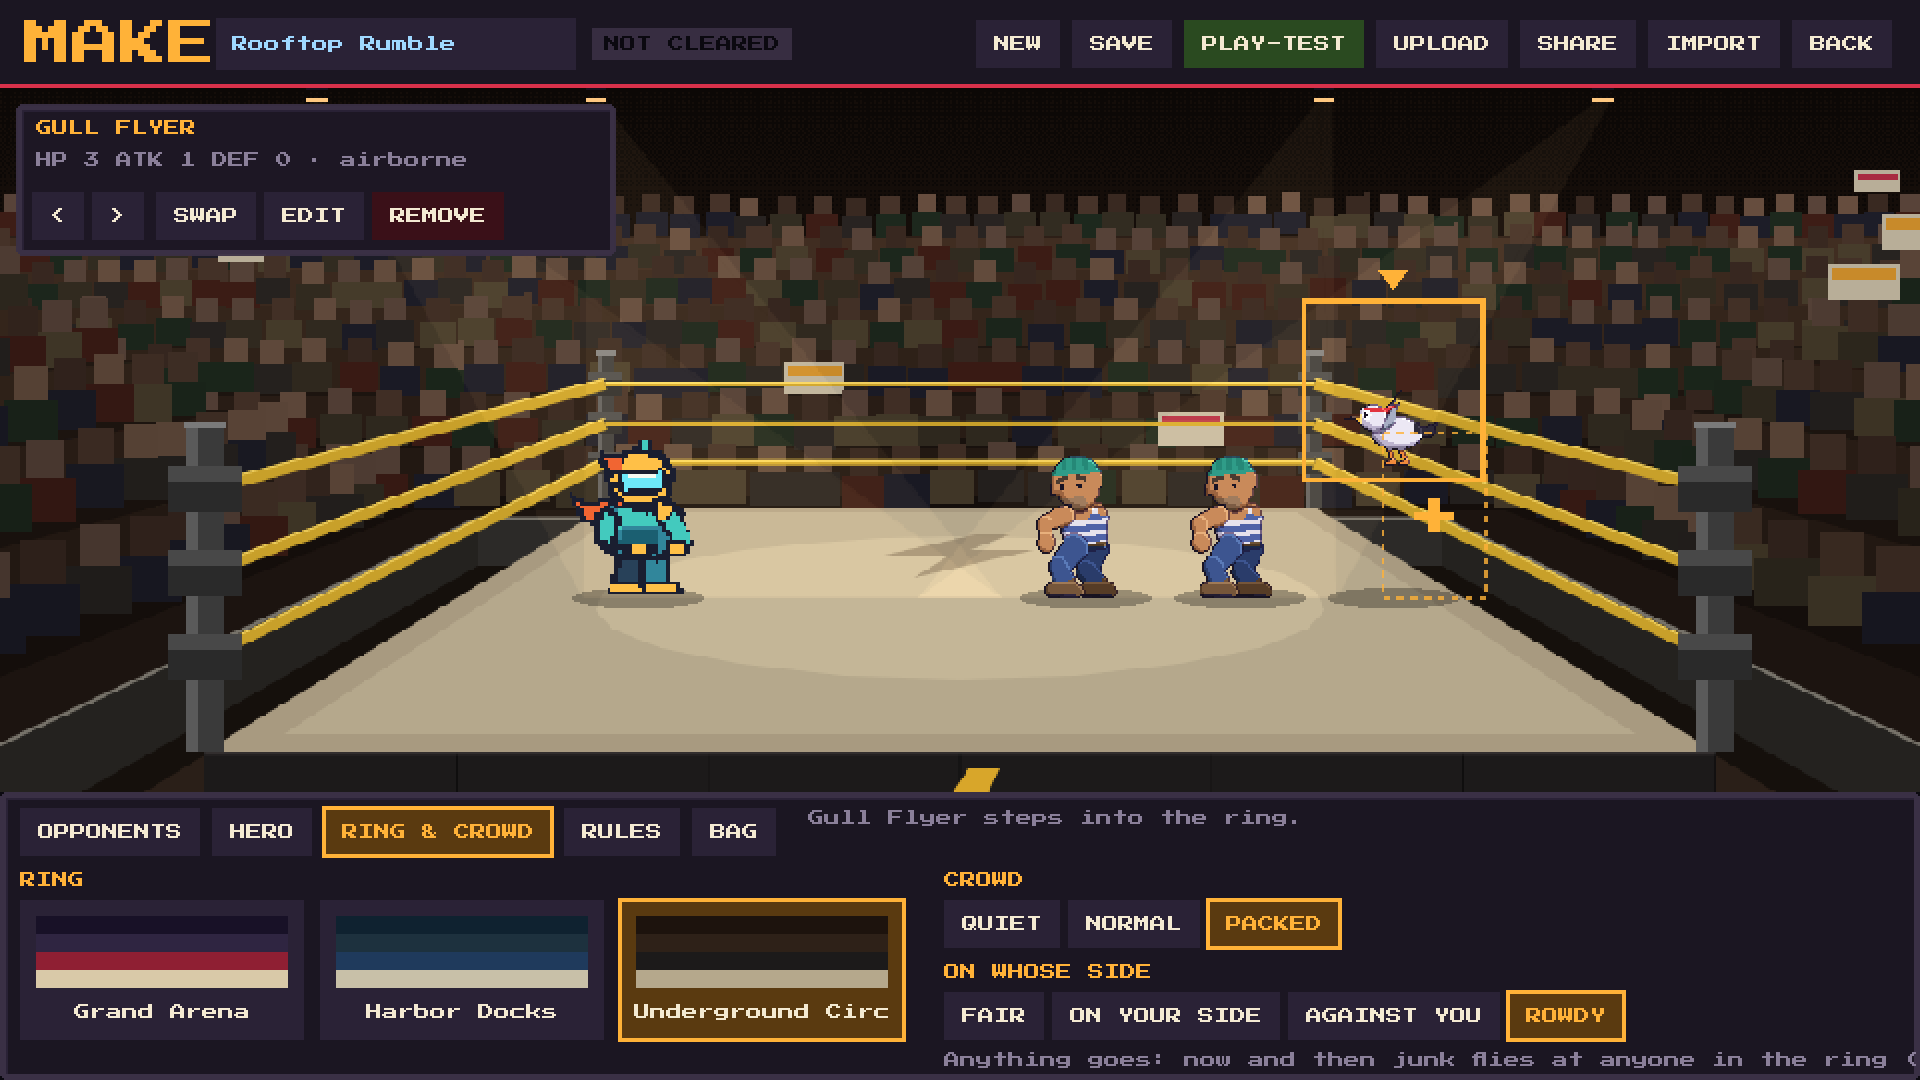
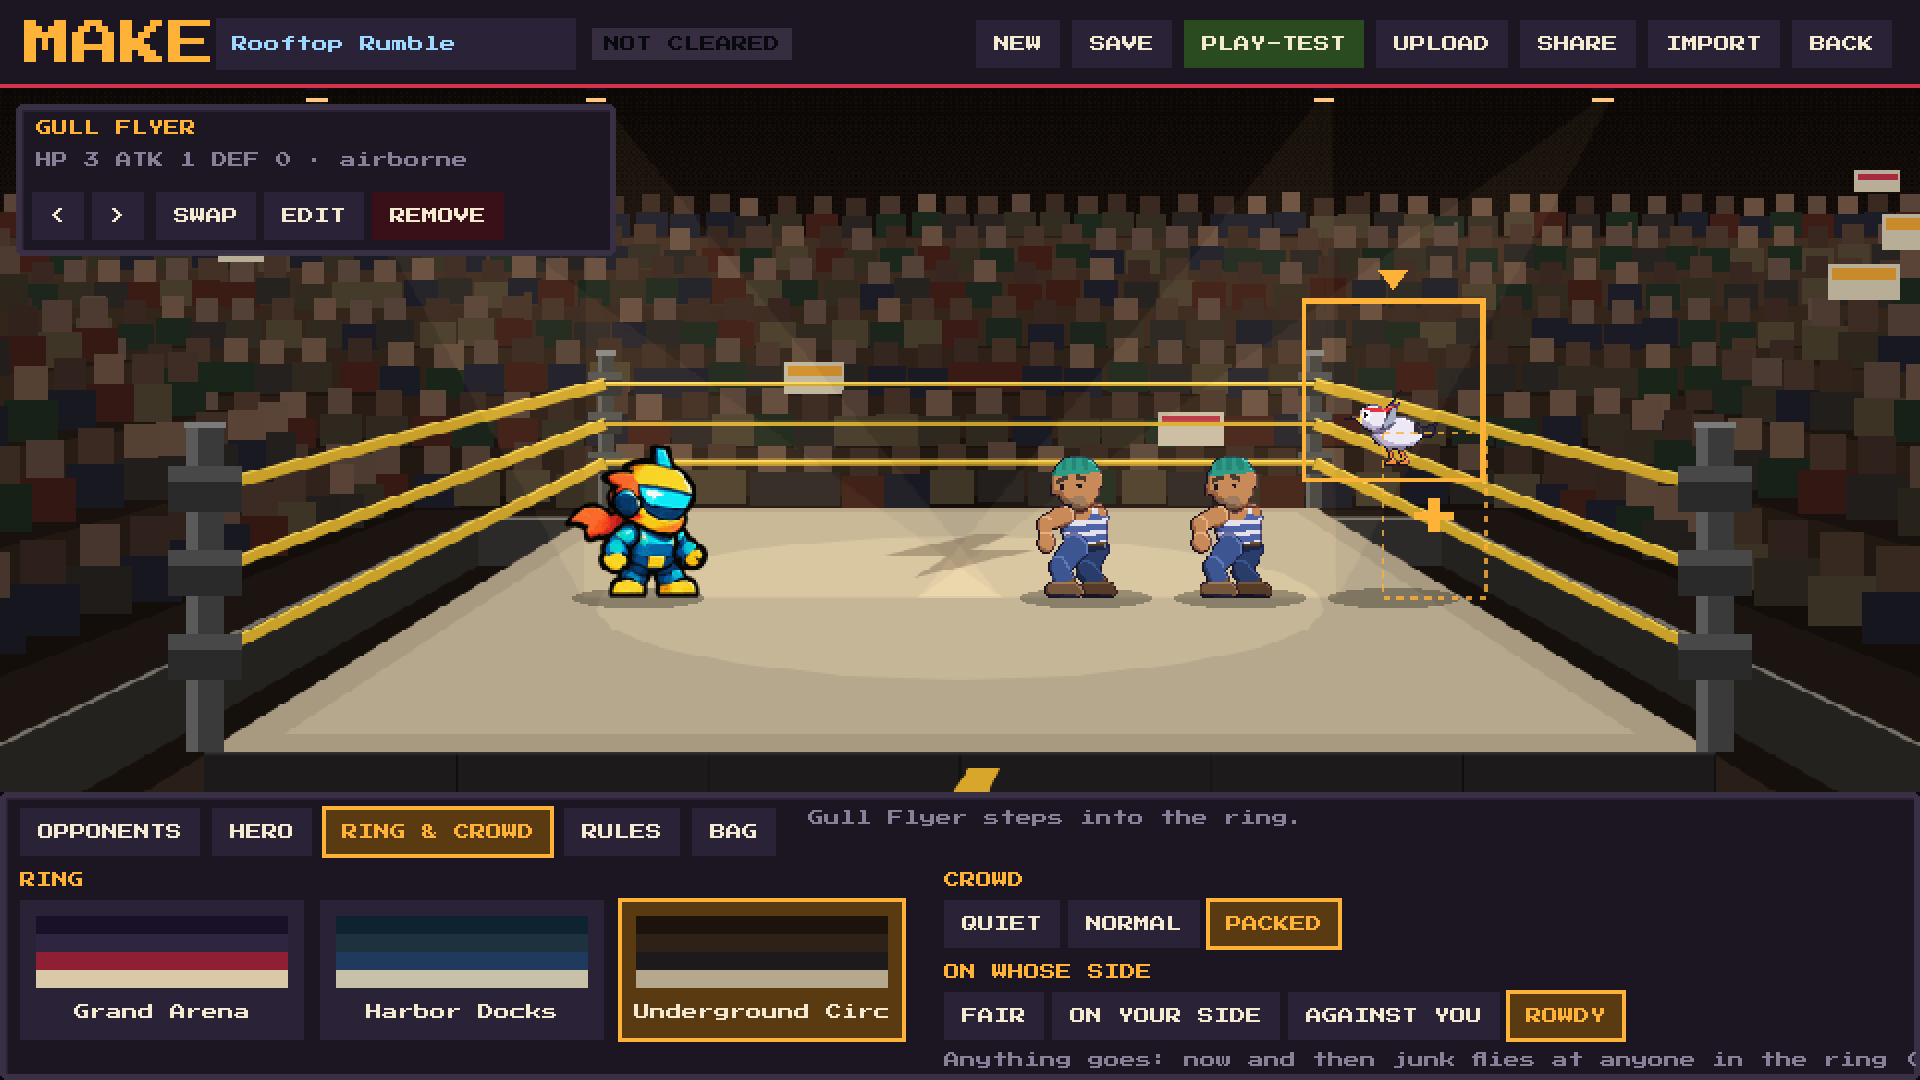
Kid Chispa's look v3: the painted sheet, re-cut onto 96-px frames
Rows anchored on their own floor lines, frames clipped to their 181-px columns,
scaled to 96x96 and reduced to 256 colours (tools/art/recut_kid_chispa.py; source
kept in art/sprites/kid_chispa_v3_source.png, v2 kept as kid_chispa_v2.png).
The smoke test now schedules the Elbow Drop presses from inside the page so a slow
frame can't make it miss the second landing. Store cover and screenshots refreshed.

Claude-Session: https://claude.ai/code/session_01QyvaQ22fJeH4nYnXb7669o

Changed region(s): [[0.2812, 0.3972, 0.375, 0.55]]

diff --git a/src/systems/hero_art.ts b/src/systems/hero_art.ts
@@ -1,7 +1,8 @@
 // Kid Chispa's finished art: a frame-by-frame sprite sheet (96x96 frames, one
-// row per animation; art/sprites/kid_chispa.png). It replaces the test wrestler
-// wherever Kid Chispa appears, unless you gave him a skin. His first look, drawn
-// by tools/art/kid_chispa.py, is kept as art/sprites/kid_chispa_v1.png.
+// row per animation; art/sprites/kid_chispa.png, re-cut from the painted sheet
+// art/sprites/kid_chispa_v3_source.png by tools/art/recut_kid_chispa.py). It
+// replaces the test wrestler wherever Kid Chispa appears, unless you gave him a
+// skin. Earlier looks are kept as art/sprites/kid_chispa_v1.png and _v2.png.
 
 import type Phaser from 'phaser';
 import sheetUrl from '../assets/kid_chispa.png';

diff --git a/tools/smoke_test.py b/tools/smoke_test.py
@@ -274,19 +274,31 @@ with sync_playwright() as p:
 
     # double jump: Elbow Drop, pressed just before each landing -> two hits
     hp0 = battle_eval(page, "return s.engine.enemies()[0].hp;")
+    # the presses are scheduled from inside the page, on every game frame, so a slow
+    # screenshot or a busy test machine can't make the test miss the second landing
+    page.evaluate(
+        """(() => {
+          const s = window.__game.scene.getScene('battle');
+          const seen = new Set();
+          window.__stompWatch = setInterval(() => {
+            const st = s.commands.state;
+            if (st && st.kind === 'stomp' && st.keyAt > 0 && !seen.has(st)) {
+              seen.add(st);
+              window.__debug.press('confirm', st.keyAt - 80, st.keyAt - 30);
+            }
+          }, 5);
+        })()"""
+    )
     choose_move(page, 1)
-    for n in range(2):
-        try:
-            wait_command(page, "stomp")
-        except Exception:
-            print("    log:", battle_eval(page, "return s.engine.log.slice(-6);"), battle_eval(page, "return s.commands.state;"))
-            raise
-        key_at(page, lead_ms=80)
-        if n == 0:
-            page.wait_for_timeout(120)
-            page.screenshot(path=f"{out}/21_cmd_stomp.png")
-        page.wait_for_function("!window.__game.scene.getScene('battle').commands.state", timeout=4000)
+    try:
+        wait_command(page, "stomp")
+    except Exception:
+        print("    log:", battle_eval(page, "return s.engine.log.slice(-6);"), battle_eval(page, "return s.commands.state;"))
+        raise
+    page.wait_for_timeout(120)
+    page.screenshot(path=f"{out}/21_cmd_stomp.png")
     wait_turn_over(page)
+    page.evaluate("clearInterval(window.__stompWatch)")
     r = last_cmds(page, "elbow_drop")
     hp1 = battle_eval(page, "return s.engine.enemies()[0].hp;")
     check(len(r) == 2 and all(x.split(' ')[2] in ("great", "good") for x in r) and hp0 - hp1 == 4,

diff --git a/tools/art/recut_kid_chispa.py b/tools/art/recut_kid_chispa.py
@@ -1,0 +1,28 @@
+"""Re-cuts Kid Chispa's painted sheet (art/sprites/kid_chispa_v3_source.png, 1448x1086) onto the
+game's grid: each row anchored on its own floor line, frames clipped to their 181-px column, scaled
+to 96x96 cells (one row per animation), then reduced to 256 colours.
+
+Usage: python3 tools/art/recut_kid_chispa.py art/sprites/kid_chispa_v3_source.png art/sprites/kid_chispa.png
+"""
+import sys
+from PIL import Image
+src, out = sys.argv[1], sys.argv[2]
+im = Image.open(src).convert("RGBA")
+P = 181          # source column pitch
+F = 96           # game frame
+BANDS = [(18, 186), (195, 370), (376, 549), (563, 732), (745, 890), (902, 1075)]  # top, floor of each row
+COUNTS = [6, 8, 8, 4, 6, 6]
+sheet = Image.new("RGBA", (F * 8, F * 6), (0, 0, 0, 0))
+for r, ((top, floor), n) in enumerate(zip(BANDS, COUNTS)):
+    for c in range(n):
+        cell = Image.new("RGBA", (P, P), (0, 0, 0, 0))
+        y0 = floor + 1 - P
+        part = im.crop((c * P, max(top, y0), c * P + P, floor + 1))
+        cell.alpha_composite(part, (0, P - part.height))
+        small = cell.convert("RGBa").resize((F, F), Image.LANCZOS).convert("RGBA")
+        # drop the faintest haze so empty space stays empty
+        a = small.getchannel("A").point(lambda v: 0 if v < 24 else v)
+        small.putalpha(a)
+        sheet.alpha_composite(small, (c * F, r * F))
+sheet.quantize(colors=256, method=Image.Quantize.FASTOCTREE, dither=Image.Dither.NONE).save(out, optimize=True)
+print("wrote", out, sheet.size)
